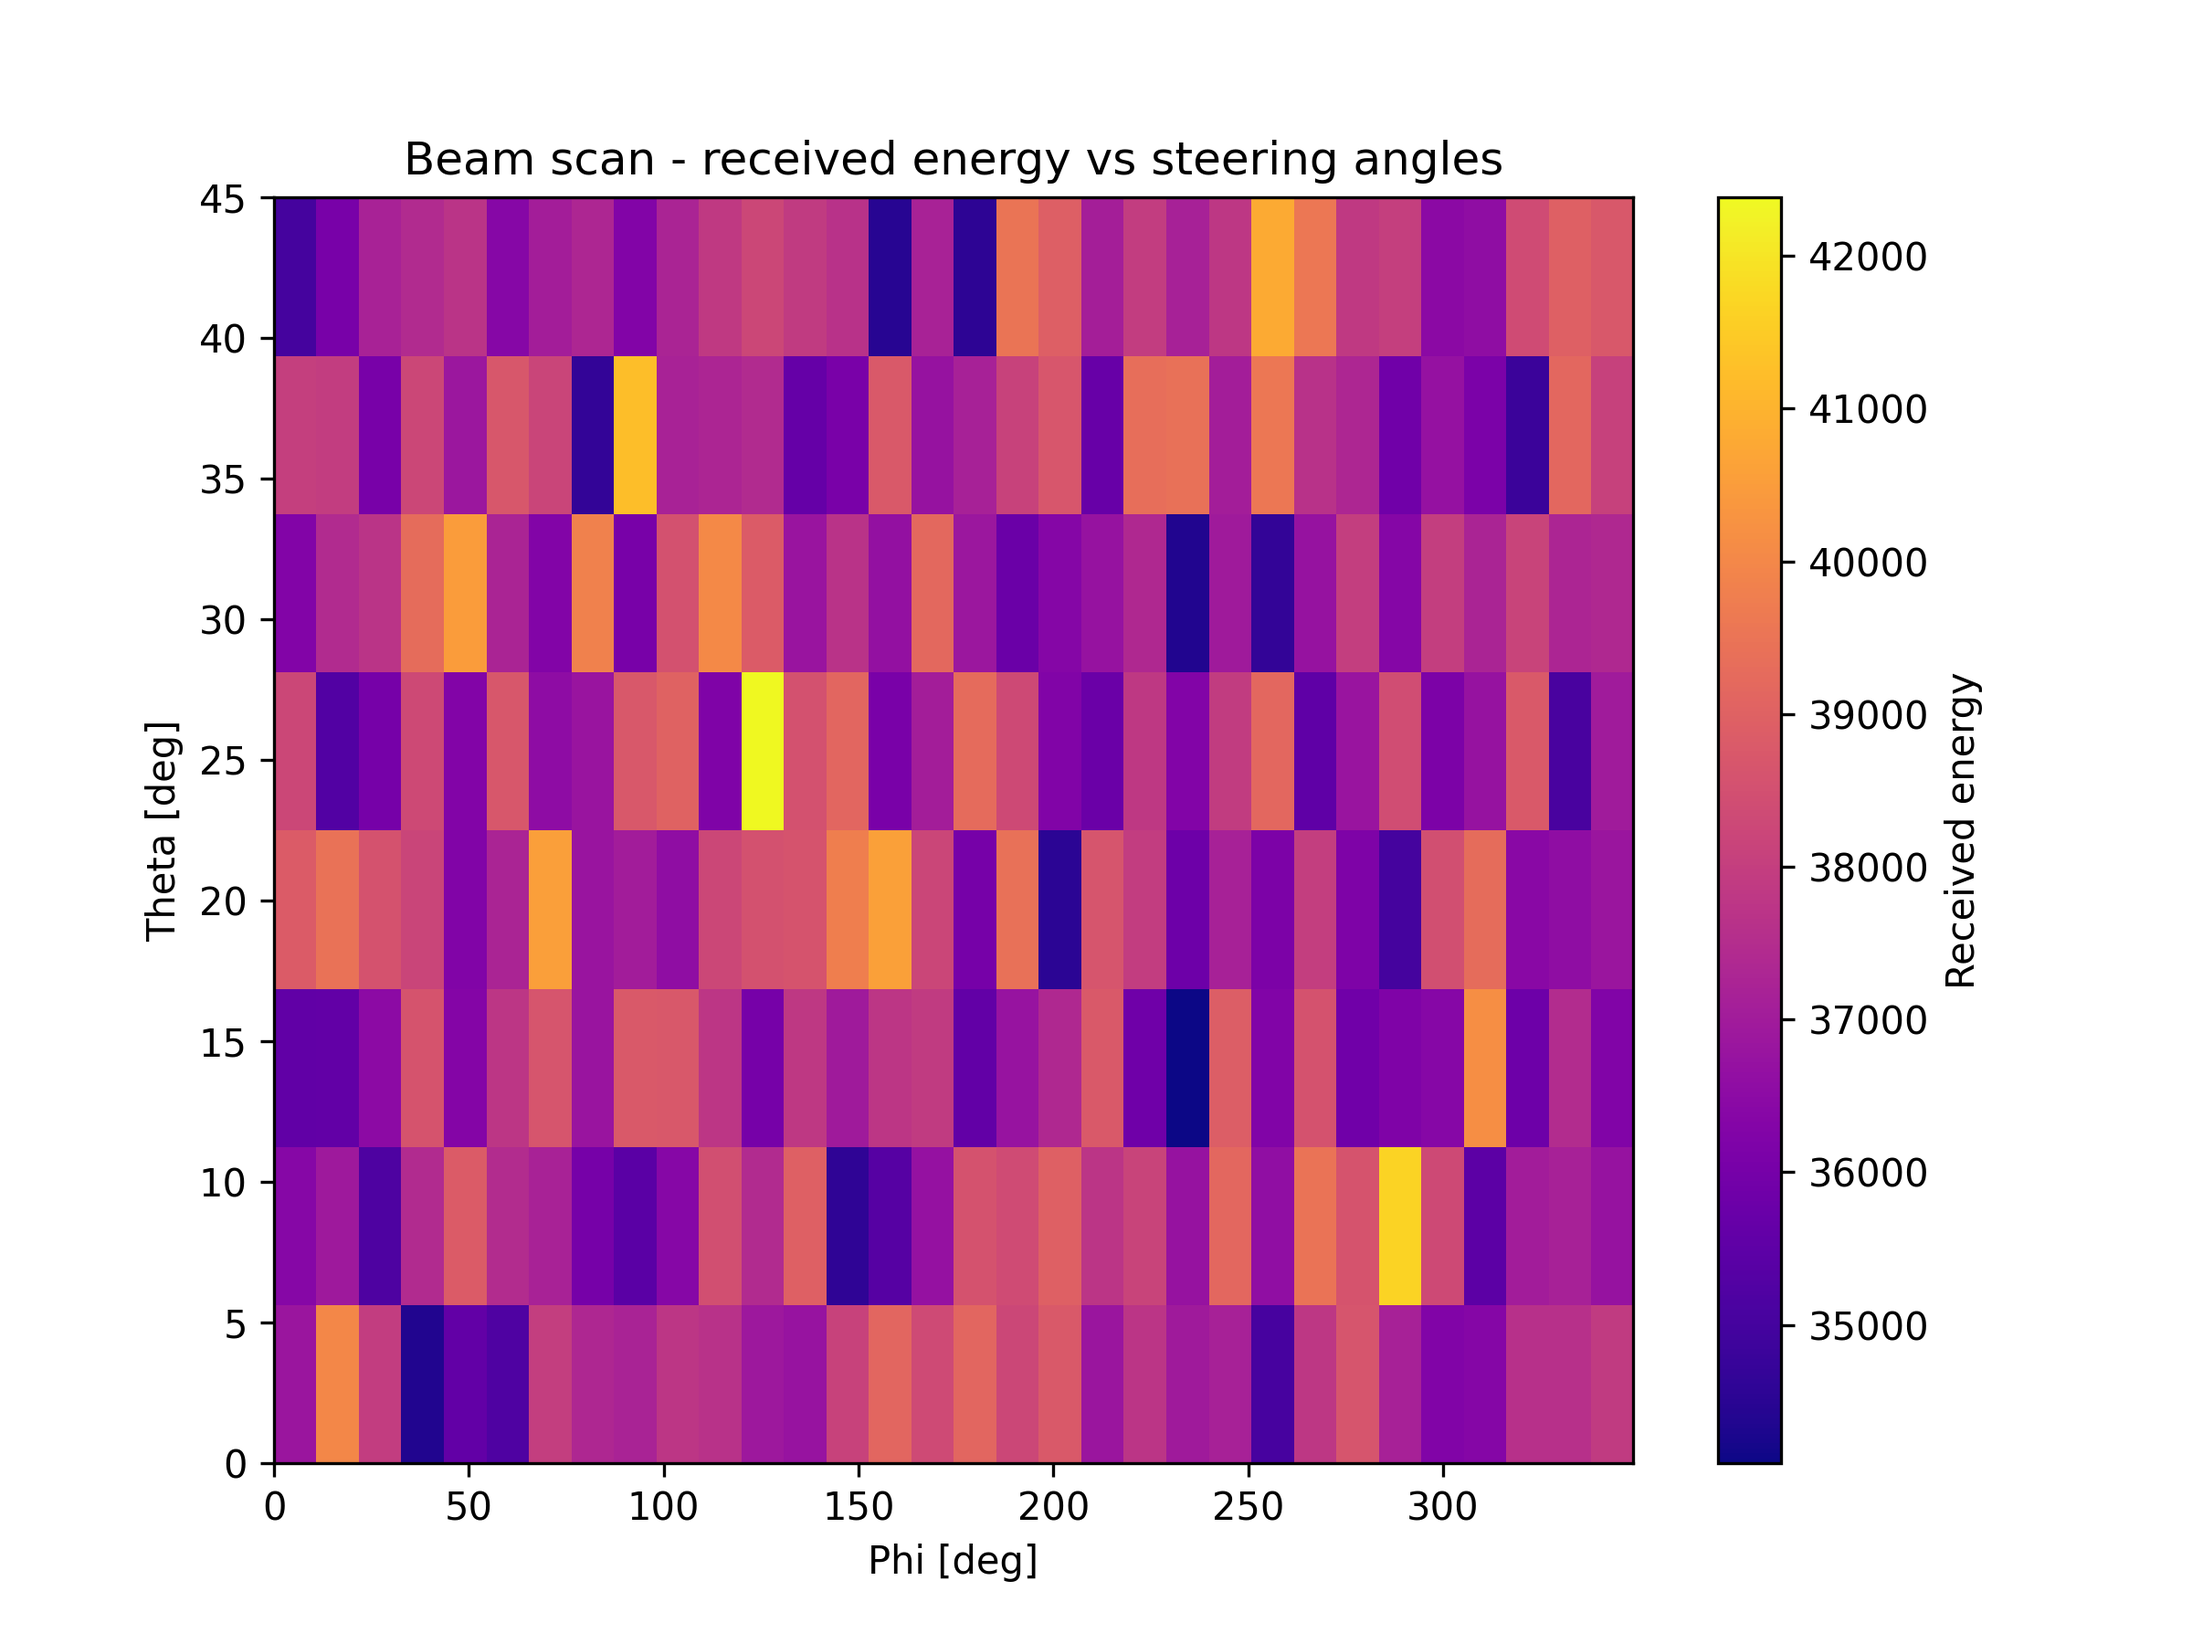
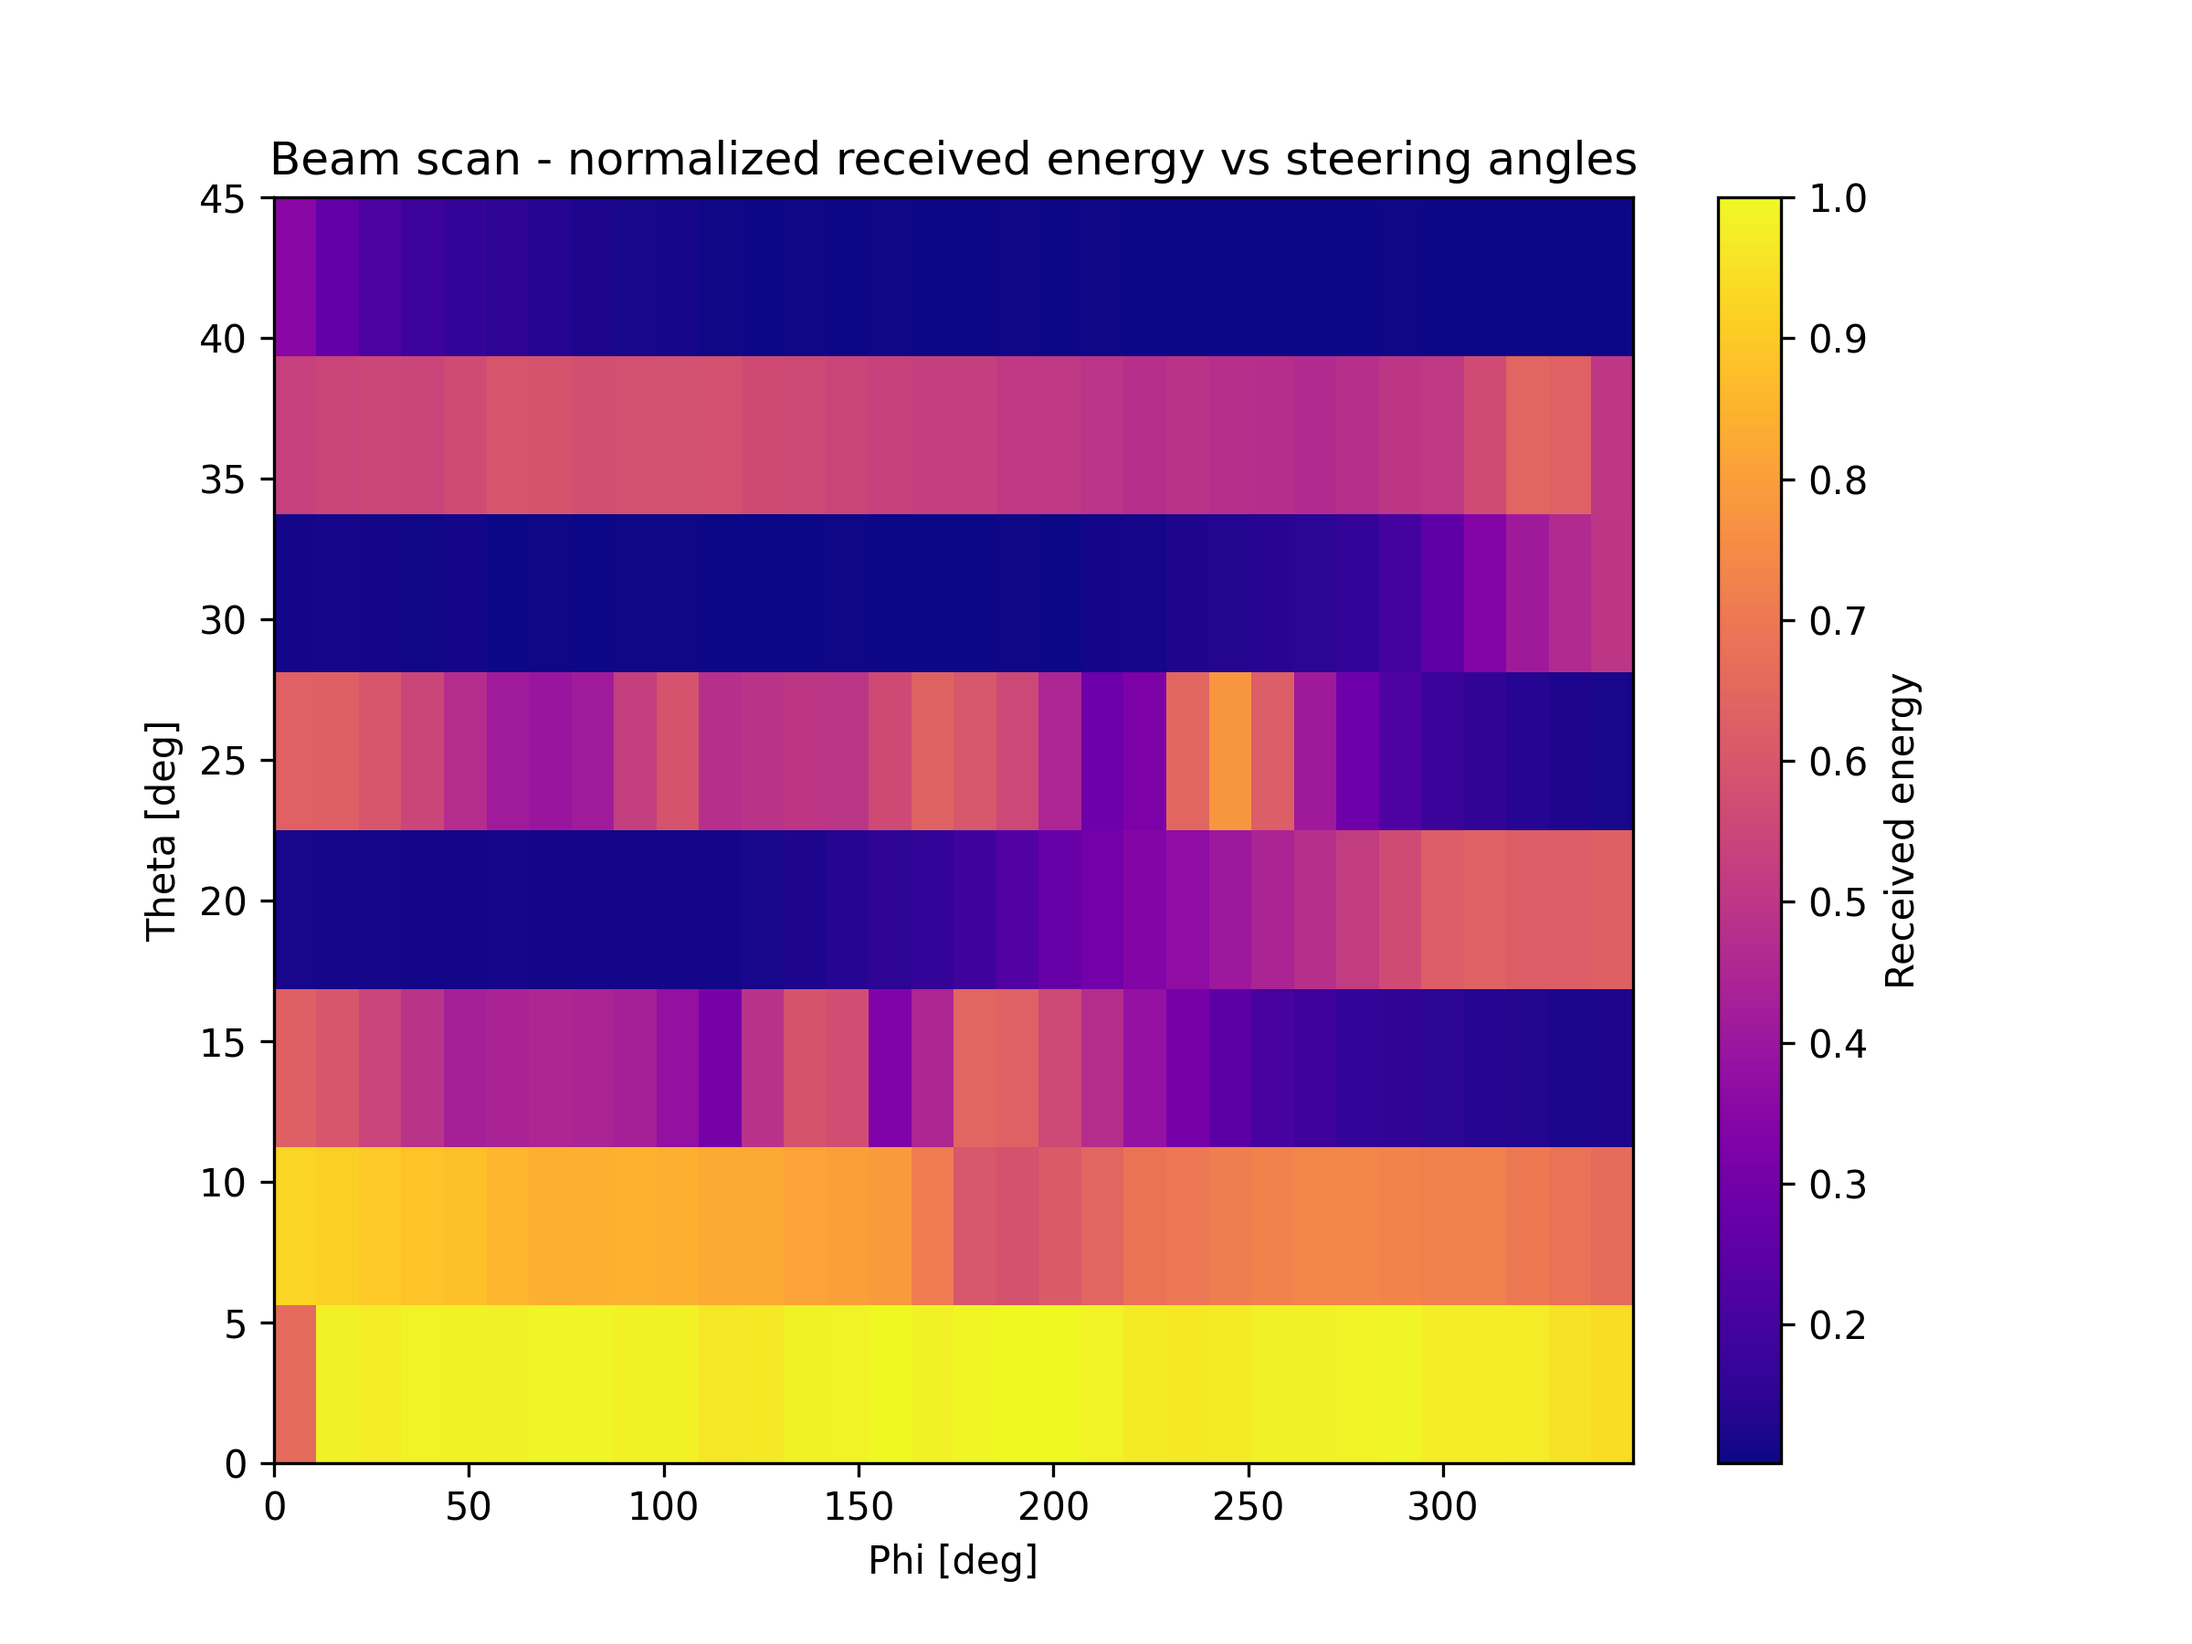
working transmit and receive modes

diff --git a/GUI/main.py b/GUI/main.py
@@ -32,7 +32,7 @@ import matplotlib.pyplot as plt
 import asyncio
 from AF_Calc import runAF_Calc
 from create_default_rx_grid import DEFAULT_RX_GRID
-from PLUTO import get_energy, continuous_tx, stop_tx
+from PLUTO import get_energy, tx, stop_tx
 import plotly.graph_objects as go
 #global serial handler
 ser = None
@@ -460,12 +460,17 @@ def beam_page():
                 go.Scatter(x=[], y=[],mode = 'lines', name='Received Energy')
             )
 
-            fig.update_layout(margin=dict(l=0, r=0, t=0, b=0))
-            live_plot = ui.plotly(fig).classes('w-full h-64')
+            fig.update_layout(
+                margin=dict(l=0, r=0, t=0, b=0),
+                xaxis_title='Time(s)',
+                yaxis_title='Avg Power Received'
+            )
+            live_plot = ui.plotly(fig).classes('w-3/4 h-64')
             image_container = ui.row()\
-                .classes('w-full justify-center items-center')\
-                .style('order:2;')
+                .classes('justify-center items-center')\
+            .style('order:2; width:80%;')
             stop_event = asyncio.Event()
+            
             
             def start_live_plot():
                 # Send initial phases
@@ -478,31 +483,50 @@ def beam_page():
                     ui.image('media/AF.png').style('width:65%;').force_reload()
 
                 # Start continuous TX
-                continuous_tx()
+                tx()
 
                 # Reset stop_event
                 stop_event.clear()
 
                 # Launch async update
                 asyncio.create_task(live_update())
+                new_angle_button.visible = True
+                stop_button.visible = True
 
             async def live_update():
                 t_values = []
                 energy_values = []
+                start_time = time.time()
+                last_theta = theta.value 
+                last_phi = phi.value
 
                 while not stop_event.is_set():
-                    t = time.time()
+                    t = time.time()-start_time
                     energy = get_energy()  # sample SDR
-
                     t_values.append(t)
                     energy_values.append(energy)
-
+                    t_values = t_values[-100:]
+                    energy_values = energy_values[-100:]
                     # Update the figure's data
                     fig.data[0].x = t_values
                     fig.data[0].y = energy_values
                     live_plot.update()  # NiceGUI triggers plot update
 
                     await asyncio.sleep(0.05)  # ~20 Hz refresh
+            def send_current_phase():
+                phases = runAF_Calc(
+                    dx.value, 
+                    dy.value, 
+                    theta.value,
+                    phi.value
+                )
+                send_phases(phases)
+                # Show AF image
+                image_container.clear()
+                with image_container:
+                    ui.image('media/AF.png')\
+                    .style('width:65%;')\
+                    .force_reload()
 
             def stop_live():
                 stop_tx()
@@ -511,7 +535,17 @@ def beam_page():
 
             # Buttons
             ui.button('Transmit & Live Plot', on_click=start_live_plot)
-            ui.button('Stop', on_click=stop_live)
+            new_angle_button = ui.button(
+                'New Angle', 
+                on_click = send_current_phase
+            ) 
+            new_angle_button.visible = False
+
+            stop_button = ui.button(
+                'Stop',
+                on_click=stop_live
+            )
+            stop_button.visible = False            
     #----END transmit page----
 
 
@@ -557,7 +591,7 @@ def beam_page():
             
             async def scan_task():
                 # Launch the scan as an async background task
-                continuous_tx()
+                tx()
                 n_steps = len(DEFAULT_RX_GRID)
                 energies = np.zeros(n_steps)
 
@@ -572,6 +606,7 @@ def beam_page():
 
                 # Reshape and plot
                 energies_2D = energies.reshape(len(THETA_RANGE), len(PHI_RANGE))
+                energies_2D /= np.max(energies_2D)#normalize
                 plt.figure(figsize=(8, 6))
                 plt.imshow(
                     energies_2D,
@@ -583,7 +618,7 @@ def beam_page():
                 plt.colorbar(label='Received energy')
                 plt.xlabel('Phi [deg]')
                 plt.ylabel('Theta [deg]')
-                plt.title('Beam scan - received energy vs steering angles')
+                plt.title('Beam scan - normalized received energy vs steering angles')
                 plt.savefig('media/rx_heat.png', dpi=300)
                 plt.close()
 

diff --git a/GUI/PLUTO.py b/GUI/PLUTO.py
@@ -1,30 +1,31 @@
-import time, adi, threading
+import time, adi 
 import numpy as np
-from config import freq, base_band, samp_rate,buffer_size, num_avg
+from config import FREQ , BASE_BAND, SAMP_RATE,BUFFER_SIZE,NUM_AVG 
 
 # --- connect to plutosdr ---
-sdr = adi.pluto("ip:192.168.2.1")
-sdr.sample_rate = int(samp_rate)
+sdr = adi.Pluto("ip:192.168.2.1")
+sdr.sample_rate = int(SAMP_RATE)
 
 # --- tx setup ---
-sdr.tx_rf_bandwidth = int(samp_rate)     # match baseband bw
-sdr.tx_lo = int(freq)                    # rf carrier in hz
+sdr.tx_rf_bandwidth = int(SAMP_RATE)     # match baseband bw
+sdr.tx_lo = int(FREQ)                    # rf carrier in hz
 sdr.tx_hardwaregain_chan0 = -40          # adjust amplitude to avoid clipping
 sdr.tx_cyclic_buffer = True
 
 # --- rx setup ---
-sdr.rx_lo = int(freq)                     # rf carrier in hz
-sdr.rx_rf_bandwidth = int(samp_rate)
+sdr.rx_lo = int(FREQ)                     # rf carrier in hz
+sdr.rx_rf_bandwidth = int(SAMP_RATE)
 sdr.gain_control_mode_chan0 = "manual"
 sdr.rx_hardwaregain_chan0 = 0             # adjust as needed
-sdr.rx_buffer_size = buffer_size 
+sdr.rx_buffer_size =  BUFFER_SIZE
 
 # --- tone generator ---
-#we use a cylic buffer so the duration doesn't really matter.
-burst_duration = 0.001 #seconds
-num_samples = int(burst_duration * samp_rate)
-Tone = np.exp(1j*2*np.pi*base_band*np.arange(num_samples)/samp_rate)
-Tone *= 2**14 
+duration = 0.01
+#ensure cyclic
+num_cycles = int(BASE_BAND * duration)
+num_samples = int(num_cycles * SAMP_RATE / BASE_BAND)
+TONE= np.exp(1j*2*np.pi*BASE_BAND*np.arange(num_samples)/SAMP_RATE)
+TONE *= 2**14 
 
 def tx():
     '''Send the tone'''
@@ -45,7 +46,7 @@ def get_energy() -> float:
         rx = sdr.rx()
         power+= np.mean(np.abs(rx)**2)
     power /= NUM_AVG
-
+    return power
 
 # --- Example usage ---
 if __name__ == "__main__":
@@ -69,11 +70,11 @@ if __name__ == "__main__":
             time.sleep(sleep_time)
     times = np.arange(0,DURATION, INTERVAL)
     plt.figure(figsize=(8,5))
-    energies /= np.argmax(energies)
-    plt.plot(times,energies, marker='o')
+    plt.plot(times,energies/np.max(energies), marker='o')
     plt.xlabel('Time [s]')
     plt.ylabel('Received energy')
     plt.title("energy vs time")
     plt.grid(True)
     plt.show()
     stop_tx()
+    sdr = None
